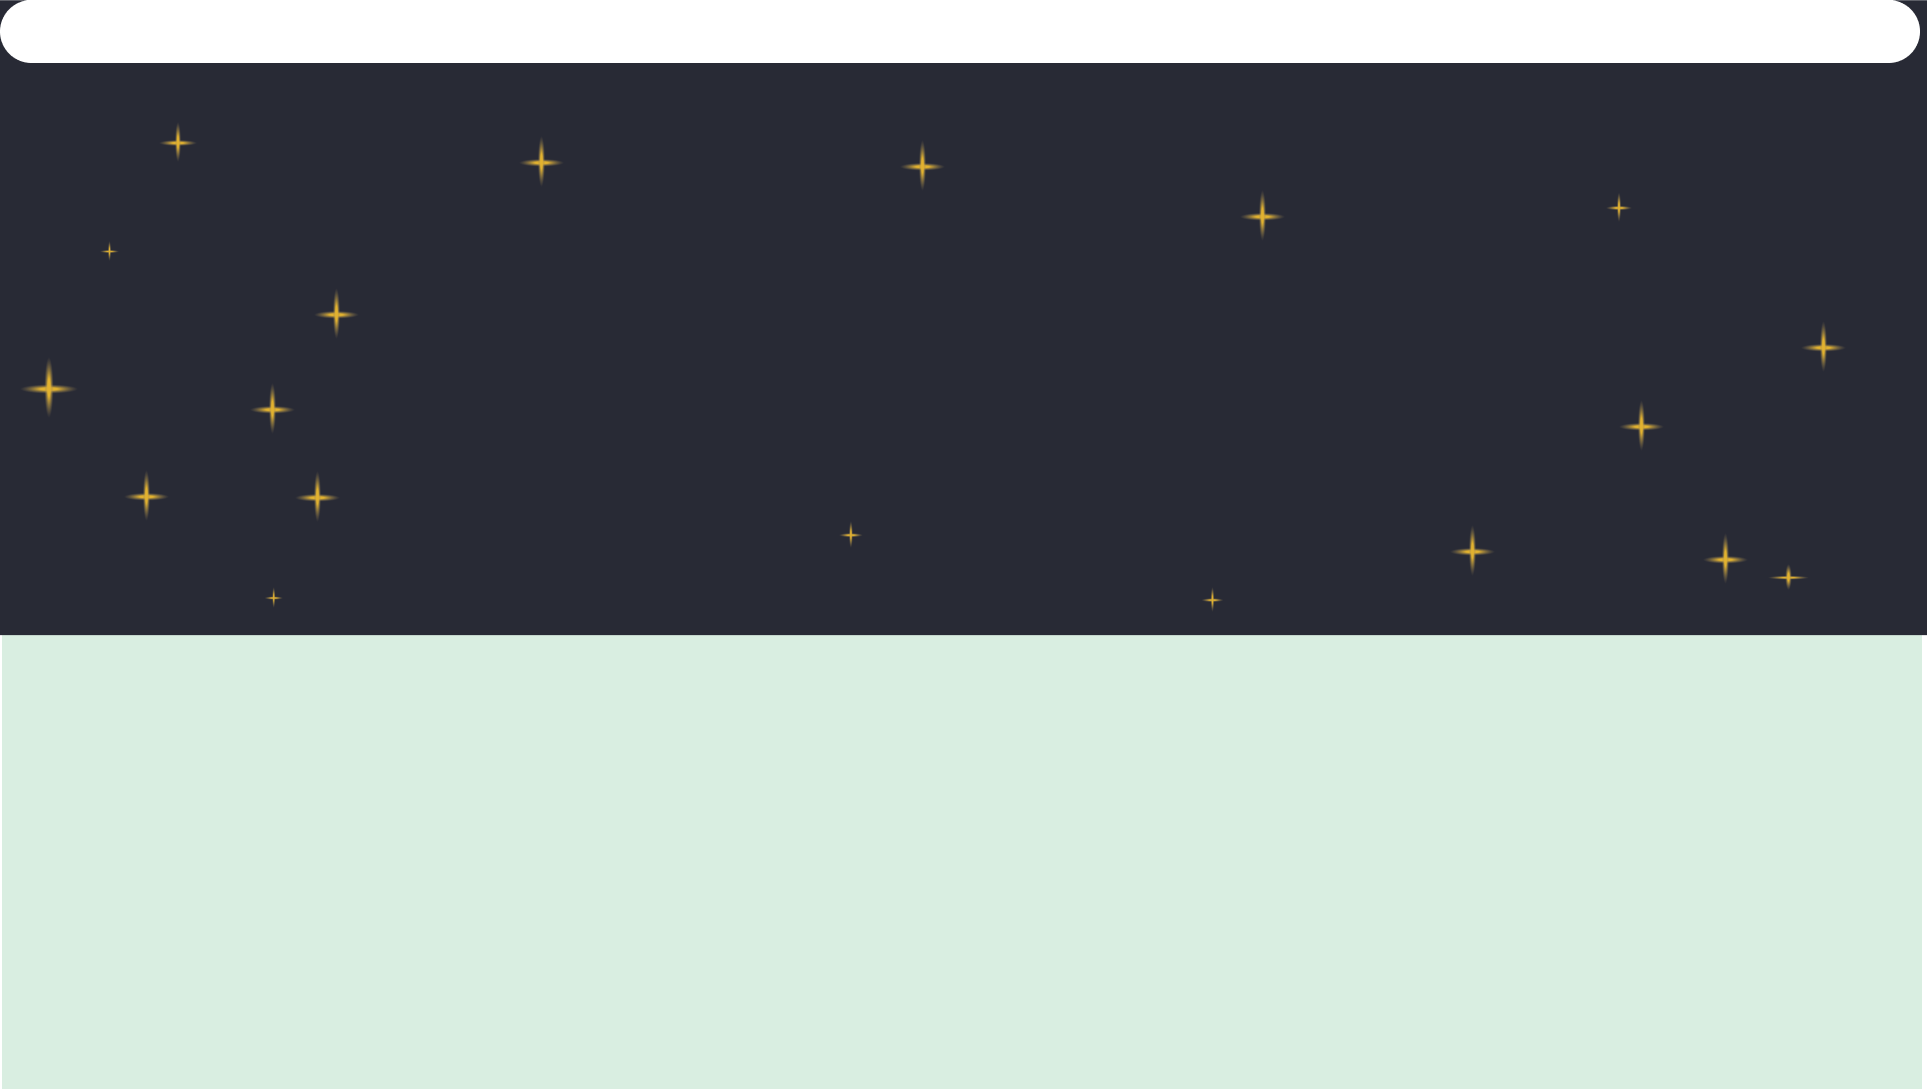
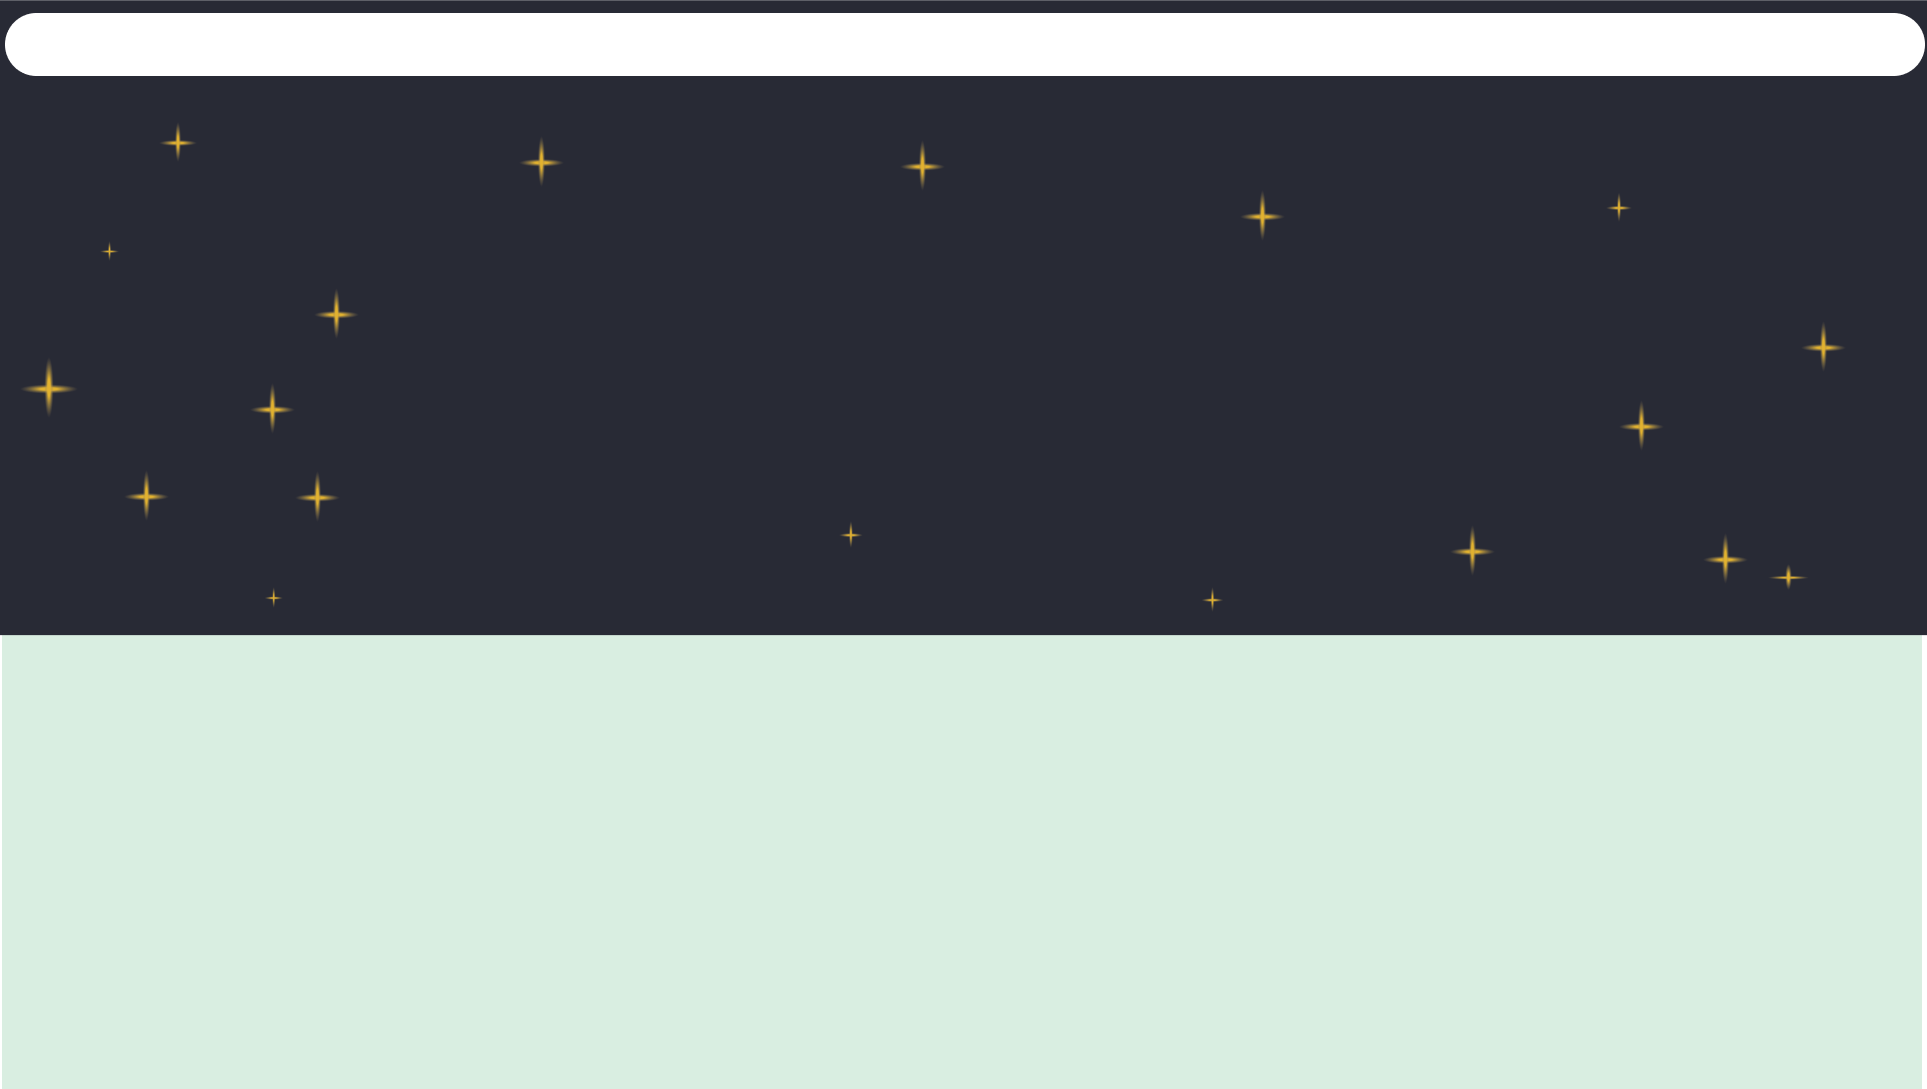
edit css

Changed region(s): [[0.0, 0.0, 1.0, 0.0937]]

diff --git a/index.html b/index.html
@@ -1,9 +1,14 @@
 <!DOCTYPE html>
 <html lang="vi">
 <head>
-  <meta charset="UTF-8">
-  <meta name="viewport" content="width=device-width, initial-scale=1.0">
-  <link rel="stylesheet" href="style.css">
+    <title>Dịch</title>
+    <meta charset="UTF-8">
+    <meta name="viewport" content="width=device-width, initial-scale=1.0">
+    <link rel="stylesheet" href="style.css">
+    <div class="container"> 
+    <button class="button" >Học Tập</button>
+    </div> 
+    
 </head>
 <body>
 </body>

diff --git a/style.css b/style.css
@@ -1,6 +1,20 @@
 body {
+    display: flex;
     background-image: url("image/bgimg.png");
     background-repeat: no-repeat;
     background-size: cover;
   }
-  
+.container {
+    margin-top: 10px;
+    width: 1531px;
+    height: 40px;
+    border: 1px solid black;
+  }
+.button {
+    background-color:red;
+    border: transparent;
+    width: 134px;
+    height: 27px;
+    font-size: 16px;
+    margin-left: 100px;
+  }
